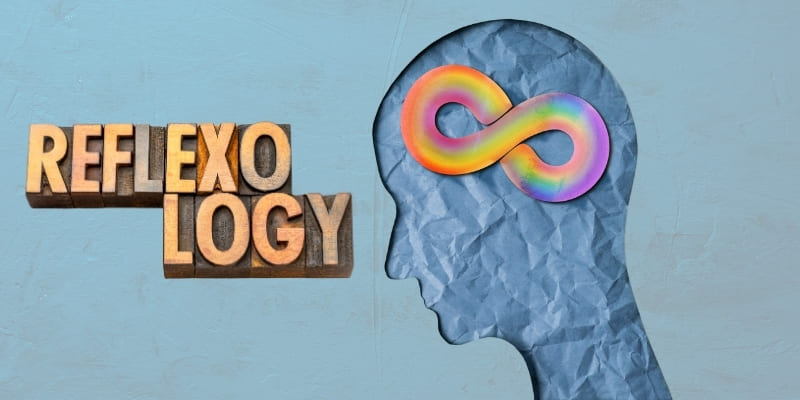
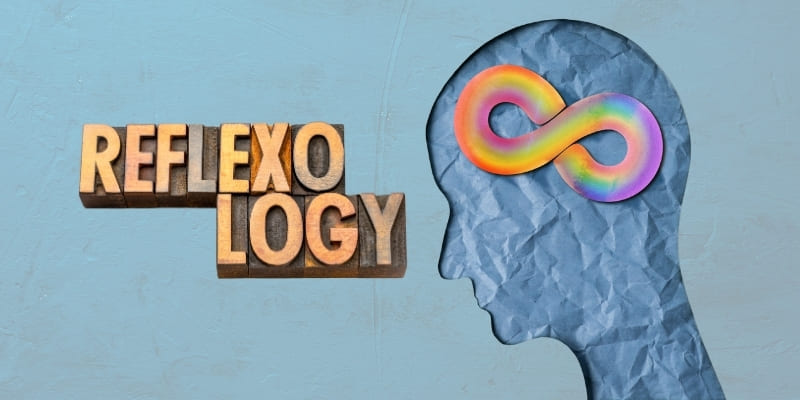
update: Refleksoloji blog içerik ve görsel güncellemeleri
- Kapak görseli değiştirildi
- Tamamlayıcı tıp açıklaması güncellendi
- 'Tedavi etmez' cümleleri yumuşatıldı
- 'Hekime danışın' uyarıları eklendi
- Blog genelinde tutarlı mesajlaşma sağlandı

diff --git a/frontend/src/pages/RefleksolojiBlog.jsx b/frontend/src/pages/RefleksolojiBlog.jsx
@@ -63,14 +63,14 @@ const RefleksolojiBlog = () => {
             {/* Giriş */}
             <div className="prose prose-lg max-w-none mb-12">
               <p className="text-lg text-gray-700 leading-relaxed">
-                <strong>Refleksoloji</strong>; ayak, el ve kulak bölgesindeki belirli sinir noktalarına uygulanan özel bası teknikleriyle vücudun kendi kendini düzenleme mekanizmasını aktive eden tamamlayıcı bir uygulamadır.
+                <strong>Refleksoloji</strong>; genelde ayakta (bazen de elde) belirli noktalara basınç uygulanarak yapılan bir tamamlayıcı, alternatif tıp yöntemidir. Vücudun kendi kendini düzenleme mekanizmasını aktive etmeyi hedefler.
               </p>
               <p className="text-lg text-gray-700 leading-relaxed">
                 <strong>Medipodo Ayak Sağlığı</strong> olarak Ankara Bağlıca'da 1 podolog ve 2 uzman refleksolog kadromuzla refleksolojiyi bilimsel, güvenli ve kişiye özel bir yaklaşımla uyguluyoruz.
               </p>
               <div className="bg-blue-50 border-l-4 border-blue-600 p-6 rounded-r-lg my-6">
                 <p className="text-gray-700 font-semibold">
-                  ⚠ Refleksoloji; tedavi etmez, ancak birçok yaygın sağlık durumunda destekleyici ve düzenleyici bir etki sunar.
+                  💡 Refleksoloji, destekleyici uygulamadır, sağlık probleminiz varsa hekimize danışmayı ihmal etmeyin.
                 </p>
               </div>
             </div>
@@ -421,7 +421,7 @@ const RefleksolojiBlog = () => {
                 
                 <div className="bg-yellow-50 border-l-4 border-yellow-600 p-6 rounded-r-lg">
                   <p className="text-gray-700 font-semibold">
-                    ⚠ Tıbbi tedavinin yerine geçmez, tamamlayıcıdır.
+                    💡 Refleksoloji, destekleyici uygulamadır, sağlık probleminiz varsa hekimize danışmayı ihmal etmeyin.
                   </p>
                 </div>
               </div>
@@ -556,7 +556,7 @@ const RefleksolojiBlog = () => {
                 <div className="bg-white border border-gray-200 rounded-lg p-6 shadow-sm hover:shadow-md transition-shadow">
                   <h3 className="text-xl font-bold text-gray-900 mb-3">Refleksoloji tedavi midir?</h3>
                   <p className="text-gray-700">
-                    <strong>Hayır.</strong> Tıbbi tedavinin yerine geçmez, tamamlayıcı bir uygulamadır.
+                    <strong>Hayır.</strong> Refleksoloji, destekleyici bir uygulamadır. Sağlık probleminiz varsa mutlaka hekiminize danışın.
                   </p>
                 </div>
 
